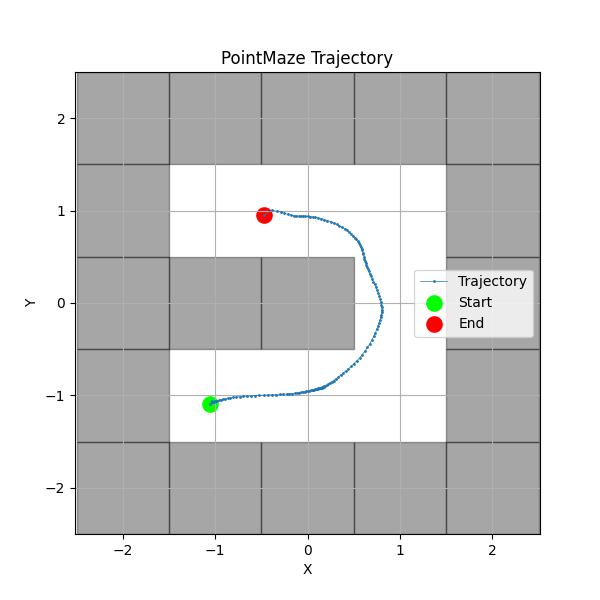
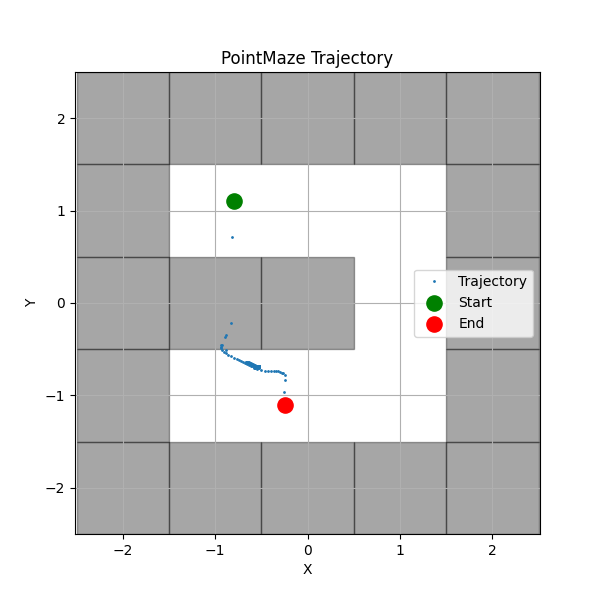
Local umaze experimentation

diff --git a/timeskip-diffuser/src/timeskip_diffuser/datasets/umaze_flat.py b/timeskip-diffuser/src/timeskip_diffuser/datasets/umaze_flat.py
@@ -1,5 +1,5 @@
 """
-Datasets from the U-Maze environment in Minari.
+Flattened (position-only) dataset from the U-Maze v2 environment in Minari.
 """
 
 import gymnasium as gym
